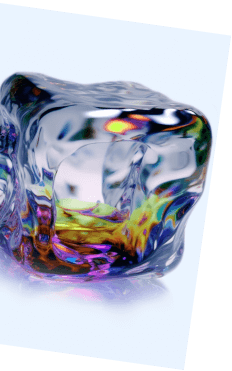
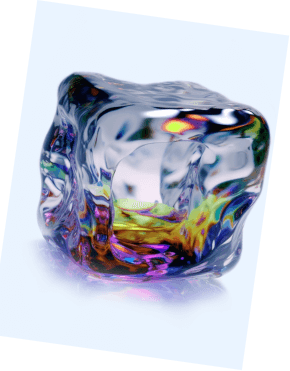
add hero section

diff --git a/src/components/Hero/Hero.jsx b/src/components/Hero/Hero.jsx
@@ -1,0 +1,33 @@
+import s from "./hero.module.css";
+import video from "../../assets/Images/video1.png";
+import cube from "../../assets/Images/cube1.png";
+import Button from "../Button/Button";
+import Container from "../Container/Container";
+
+export default function Hero() {
+  return (
+    <Container>
+      <div className={s.container}>
+        <div className={s.left}>
+          <h2 className={s.title}>
+            Regulating Online Gambling with Transparency and Efficiency
+          </h2>
+          <p className={s.description}>
+            A solution founded on blockchain technology, ushering in an
+            unparalleled level of transparency and efficiency in the regulation
+            of online gambling.
+          </p>
+          <div className={s.btnContainer}>
+            <Button
+              type="button"
+              text="Learn more"
+              onClick={() => console.log("click")}
+            />
+          </div>
+        </div>
+        <img className={s.image} src={video} alt="video" />
+        <img className={s.cube} src={cube} alt="cube" />
+      </div>
+    </Container>
+  );
+}

diff --git a/src/components/Header/Header.jsx b/src/components/Header/Header.jsx
@@ -8,7 +8,10 @@ export default function Header() {
   return (
     <Container>
       <div className={s.header}>
-        <img className={s.logo} src={logo} alt="logo" />
+        <NavLink to="/">
+          <img className={s.logo} src={logo} alt="logo" />
+        </NavLink>
+
         <ul className={s.list}>
           <li className={s.item}>
             <NavLink
@@ -51,7 +54,12 @@ export default function Header() {
             </NavLink>
           </li>
         </ul>
-        <Button text="White paper" />
+
+        <Button
+          text="White paper"
+          type="button"
+          onClick={() => console.log("click")}
+        />
       </div>
     </Container>
   );

diff --git a/src/components/Hero/hero.module.css b/src/components/Hero/hero.module.css
@@ -1,0 +1,31 @@
+.container {
+  position: relative;
+  display: flex;
+  align-items: center;
+  border-radius: 2.5em;
+  padding: 6.83em;
+  margin-top: 8em;
+  background: var(--white);
+}
+.left {
+  margin-right: 4.08em;
+}
+.image {
+  width: 50.16em;
+}
+.title {
+  font-size: 3.333em;
+  font-weight: 500;
+  line-height: 115%;
+}
+.description {
+  margin: 2em 0;
+  font-size: 1.666em;
+  line-height: 130%;
+}
+.cube {
+  position: absolute;
+  right: -24em;
+  bottom: -18em;
+  z-index: -1;
+}

diff --git a/src/components/Header/header.module.css b/src/components/Header/header.module.css
@@ -2,7 +2,15 @@
   display: flex;
   justify-content: space-evenly;
   align-items: center;
-  margin: 3.333em 0 2.666em 0;
+  /* margin: 3.333em 0 2.666em 0; */
+  position: fixed;
+  top: 0;
+  left: 0;
+  width: 100%;
+  padding: 2em 0;
+  background-color: var(--mainBg);
+  opacity: 0.9;
+  z-index: 1;
 }
 .logo {
   width: 13.58em;

diff --git a/src/components/Button/Button.jsx b/src/components/Button/Button.jsx
@@ -2,7 +2,7 @@ import s from "./button.module.css";
 
 export default function Button({ type, text, onClick }) {
   return (
-    <button className={s.button} type={type} onClick={() => onClick()}>
+    <button className={s.button} type={type} onClick={onClick}>
       {text}
     </button>
   );

diff --git a/src/pages/Home.jsx b/src/pages/Home.jsx
@@ -1,3 +1,9 @@
+import Hero from "../components/Hero/Hero";
+
 export default function Home() {
-  return <div>Home</div>;
+  return (
+    <section>
+      <Hero />
+    </section>
+  );
 }
